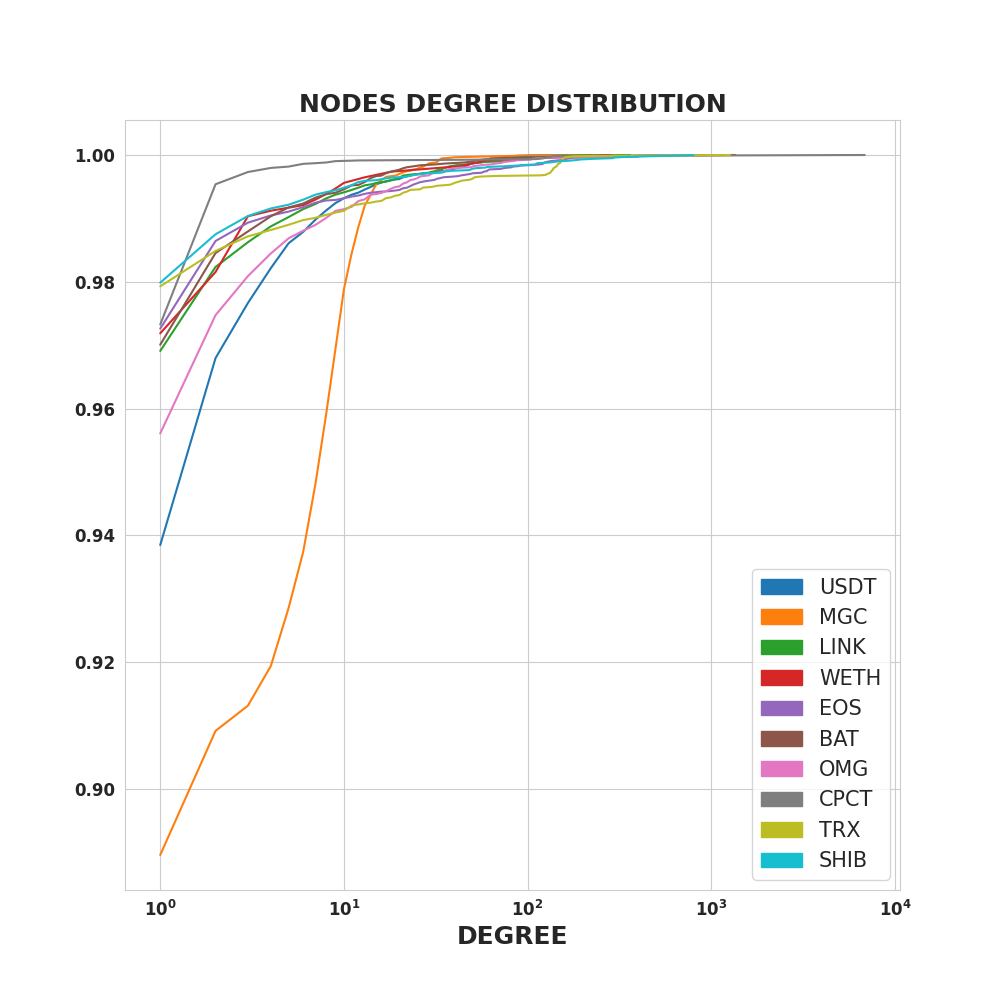
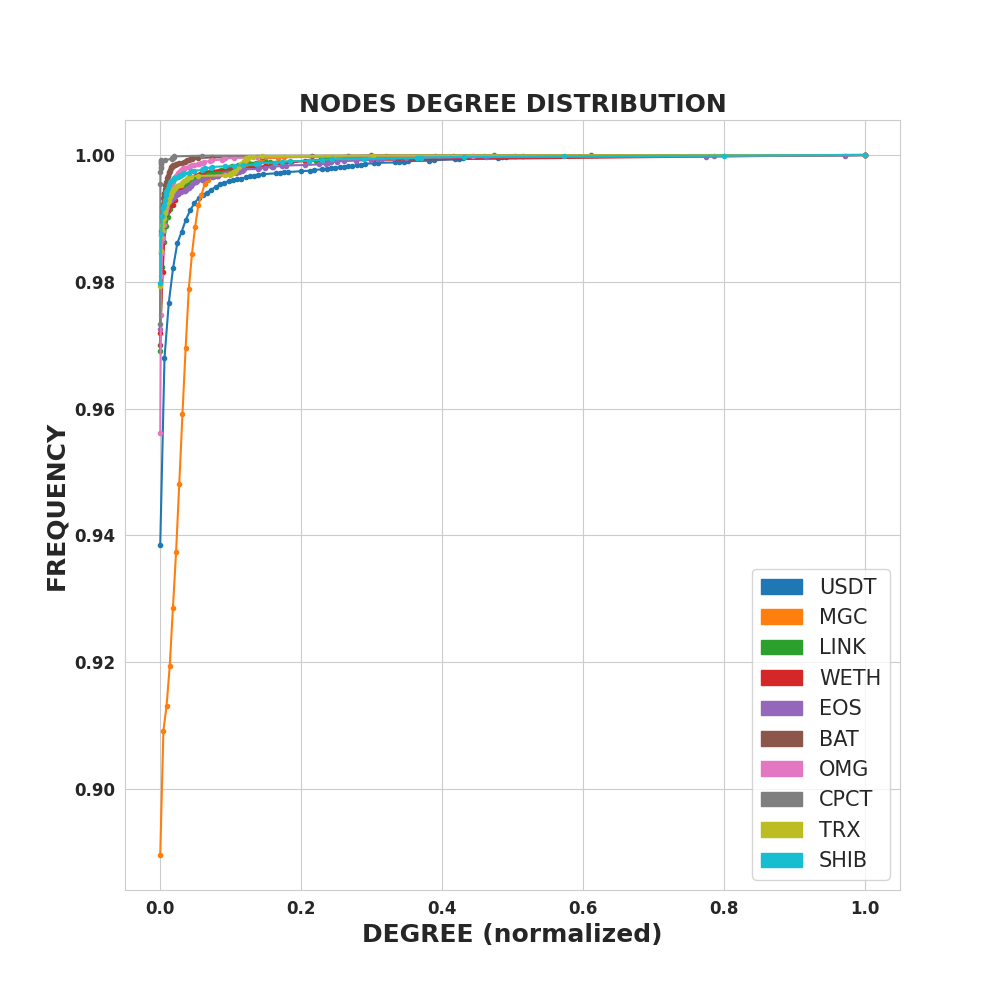
dcf

diff --git a/make_graph_distr.py b/make_graph_distr.py
@@ -7,6 +7,7 @@ import pandas as pd
 import csv
 from pandas.io.formats import style
 from sklearn.preprocessing import MinMaxScaler 
+from sklearn.preprocessing import StandardScaler 
 import seaborn as sns
 
 cname = {1:"USDT", 2:"MGC", 3:"LINK", 4:"WETH", 5:"EOS", 6:"BAT", 7:"OMG", 8:"CPCT", 9:"TRX", 10:"SHIB"}
@@ -34,7 +35,11 @@ for color,n in zip(mcolors.TABLEAU_COLORS,range(1,11)):
  
     #GROUPBY(VALORE) -> OCCORRENZE DI OGNI VALORE
     df = pd.DataFrame(list_res,columns=['id_node','degree'])
+    #print(df)
     dfg = df.groupby(['degree']).size().reset_index(name='counts')
+    #dfg.loc[-1] = [0, 0]  # adding a row
+    #dfg.index = dfg.index + 1  # shifting index
+    #dfg.sort_index(inplace=True) 
 
     #media
     #media = df['degree'].mean()
@@ -50,13 +55,7 @@ for color,n in zip(mcolors.TABLEAU_COLORS,range(1,11)):
     ##print(max_degree)
     #list_gradi_norm = [((int(gradi)/int(max_degree))*100) for gradi in list_gradi_sorted]
 
-    #NORMALIZZO - MINMAX
-    print(dfg)
-    #dfg = dfg.iloc[1: , :]
-    #scaler = MinMaxScaler()
-    #dfg_norm = pd.DataFrame(scaler.fit_transform(dfg),columns=['degree','counts'])
-    #print(dfg_norm.dtypes)
-    #print(dfg_norm)
+    
     #RECUPERO LE DUE LISTE DA PLOTTARE 
     #list_occ_norm = dfg_norm[1].tolist()
     #list_gradi_norm = dfg_norm[0].tolist()
@@ -67,16 +66,23 @@ for color,n in zip(mcolors.TABLEAU_COLORS,range(1,11)):
     #plt.xscale("log")
     #plt.yscale("log")
 
-    #NORMALIZZO CDF
+    #NORMALIZZO
+    #scaler = MinMaxScaler()
+    #dfg = pd.DataFrame(scaler.fit_transform(dfg),columns=['degree','counts'])
+    dfg['degree'] = (dfg['degree'] - dfg['degree'].min()) / (dfg['degree'].max() - dfg['degree'].min())
+    print(dfg)
+
+    #CDF
     #pdf
     dfg['pdf'] = dfg['counts'] / sum(dfg['counts'])
     #print(dfg)
     #cdf
     dfg['cdf'] = dfg['pdf'].cumsum()
     dfg = dfg.reset_index()
+    #dfg['degree'] = dfg['degree']+1
     print(dfg)
-    ax = dfg.plot(x = 'degree', y = 'cdf', grid = True, ax=ax)
 
+    ax = dfg.plot(x = 'degree', y = 'cdf', grid = True, ax=ax, marker='.')
 
     #PLOT GRAFICO NORMALIZZATO 
     #ax = dfg_norm.plot(x='degree',y='counts',kind='line',ax=ax)
@@ -99,17 +105,18 @@ for color,n in zip(mcolors.TABLEAU_COLORS,range(1,11)):
 #print("degree di "+str(i)+" : "+str(list_res[i]))
 
 #PLOTTO LEGENDA E SALVO FILE
-plt.xscale('log')
+#plt.yscale('linear')
+#plt.xscale('log')
 #cdf = pd.concat(ldf)
 #print (cdf)
 #ax = sns.boxplot(x="Location", y="degree", data=cdf)    #dfg.boxplot(column=['USDT','MGC','LINK','WETH','EOS','BAT','OMG','CPCT','TRX','SHIB'])
 plt.xticks(fontsize=12,weight='bold')
 plt.yticks(fontsize=12,weight='bold')
-#plt.ylabel('DEGREE (normalized)', fontsize=18,weight='bold')
-plt.xlabel('DEGREE',fontsize=18,weight='bold')
+plt.ylabel('FREQUENCY', fontsize=18,weight='bold')
+plt.xlabel('DEGREE (normalized)',fontsize=18,weight='bold')
 plt.title('NODES DEGREE DISTRIBUTION',fontsize=18,weight='bold')
 f = plt.figure(num=1)
 f.set_figheight(10)
 f.set_figwidth(10)
 plt.legend(fontsize=15,handles=list_patch)    
-plt.savefig('./risultati_analisi/cdf_gradi.png')
+plt.savefig('./risultati_analisi/cdf_gradi_norm.png')

diff --git a/graph_distr_comp.py b/graph_distr_comp.py
@@ -4,6 +4,7 @@ import matplotlib.colors as mcolors
 import networkit as nk
 import pandas as pd
 from sklearn.preprocessing import MinMaxScaler 
+from sklearn.preprocessing import RobustScaler 
 import seaborn as sns
 import numpy as np
 
@@ -43,9 +44,16 @@ for color,n in zip(mcolors.TABLEAU_COLORS,range(1,11)):
     #NORMALIZZO MIN-MAX
     #dfg = dfg.iloc[1: , :]
     #scaler = MinMaxScaler()
-    #dfg_norm = pd.DataFrame(scaler.fit_transform(dfg),columns=['size','counts'])
+    #dfg = pd.DataFrame(scaler.fit_transform(dfg),columns=['size','counts'])
+    #print(dfg)
+    
+    #NORMAILIZZO  
+    #scaler = RobustScaler()
+    #dfg = pd.DataFrame(scaler.fit_transform(dfg),columns=dfg.columns)
+    dfg['size'] = (dfg['size'] - dfg['size'].min()) / (dfg['size'].max() - dfg['size'].min())
+
     print(dfg)
-    #NORMALIZZO CDF
+    #CALCOLO CDF
     #pdf
     dfg['pdf'] = dfg['counts'] / sum(dfg['counts'])
     #print(dfg)
@@ -53,7 +61,7 @@ for color,n in zip(mcolors.TABLEAU_COLORS,range(1,11)):
     dfg['cdf'] = dfg['pdf'].cumsum()
     dfg = dfg.reset_index()
     print(dfg)
-    ax = dfg.plot(x = 'size', y = 'cdf', grid = True, ax=ax)
+    ax = dfg.plot(x = 'size', y = 'cdf', grid = True, ax=ax, marker='.')
 
     #RECUPERO LE DUE LISTE DA PLOTTARE 
     #list_occ_norm = dfg_norm[1].tolist()
@@ -69,20 +77,20 @@ for color,n in zip(mcolors.TABLEAU_COLORS,range(1,11)):
     patch = mpatches.Patch(color=color, label=cname[n])
     list_patch.append(patch)
 
-plt.xscale("log")
-#plt.yscale("log")
+#plt.xscale("symlog")
+#plt.yscale("symlog")
 #cdf = pd.concat(ldf)
 #print (cdf)
 #ax = sns.boxplot(x="Location", y="size", data=cdf)
 plt.xticks(fontsize=12,weight='bold')
 plt.yticks(fontsize=12,weight='bold')
-#plt.ylabel('FREQUENCY', fontsize=18,weight='bold')
-plt.xlabel('SIZE OF COMPONENT',fontsize=18,weight='bold')
+plt.ylabel('FREQUENCY', fontsize=18,weight='bold')
+plt.xlabel('SIZE OF COMPONENT (noramlized)',fontsize=18,weight='bold')
 plt.title('COMPONENT SIZE DISTRIBUTION',fontsize=20,weight='bold')
 plt.legend(handles=list_patch,fontsize=15)    
 f = plt.figure(num=1)
 f.set_figheight(10)
 f.set_figwidth(10)
-plt.savefig('./risultati_analisi/cdf_size_comp.png')
+plt.savefig('./risultati_analisi/cdf_size_comp_norm.png')
 #print(wc.numberOfComponents())
 #plt.savefig('./risultati_analisi/istog_comp_conn.png')

diff --git a/diam_dens.py b/diam_dens.py
@@ -5,7 +5,7 @@
 import csv
 import networkit as nk
 
-fo = open ('./risultati_analisi/diam_dens.csv','w')
+fo = open ('./risultati_analisi/diam_dens1.csv','w')
 csv_writer = csv.writer(fo)
 csv_writer.writerow(['contratto','diam','dens'])
 
@@ -18,13 +18,23 @@ for n in range(1,11):
         print("File not exist")
         exit()
     map_nodes = reader.getNodeMap()
+
     #DIAMETRO
-    #PRIMA CALCOLA DISTANZE GRAFO
     gu = nk.graphtools.toUndirected(g)
-    #print(gu.isConnected())
-    diam = nk.distance.Diameter(gu,algo=1)
+    #print(g.numberOfNodes())
+
+    # Extract largest connect component
+    newGraph = nk.components.ConnectedComponents.extractLargestConnectedComponent(gu, True)
+    #print(newGraph.numberOfNodes())
+    
+    #FANNO LA STESSA COSA WEAKLY SU GRAFO DIRETTO E CONNECTED SU GRAFO NON DIRETTO
+    #print(nk.components.ConnectedComponents(gu).run().numberOfComponents())
+    #print(nk.components.WeaklyConnectedComponents(g).run().numberOfComponents())
+
+    diam = nk.distance.Diameter(newGraph,algo=1)
     diam.run()
-    d = diam.getDiameter()
+    d,scarta = diam.getDiameter()
+    #print(d)
     
     #DENSITA'
     dens = nk.graphtools.density(gu)

diff --git a/graph.py b/graph.py
@@ -31,18 +31,18 @@ for u, v in g.iterEdges():
     i += 1
 #-------------------------------------------------------------#
 
-#nk.viztasks.drawGraph(g)
+nk.viztasks.drawGraph(g)
 
-wc = nk.components.WeaklyConnectedComponents(g).run() 
-print ("Numero di componenti weakly connected del grafo "+str(n)+": "+str(wc.numberOfComponents()))
-dict_comp = wc.getComponentSizes() #Returns a map with the component indexes as keys, and their size as values
+#wc = nk.components.WeaklyConnectedComponents(g).run() 
+#print ("Numero di componenti weakly connected del grafo "+str(n)+": "+str(wc.numberOfComponents()))
+#dict_comp = wc.getComponentSizes() #Returns a map with the component indexes as keys, and their size as values
 
-plt.xscale("log")
-plt.xlabel("size of components")
-plt.yscale("log")
-plt.ylabel("number of components")
-plt.plot(list_scores)
-plt.savefig('distr_comp_conn_1.png')
+#plt.xscale("log")
+#plt.xlabel("size of components")
+#plt.yscale("log")
+#plt.ylabel("number of components")
+#plt.plot(list_scores)
+#plt.savefig('distr_comp_conn_1.png')
 
 
 ################IMPLEMENTATA A MANO###############
